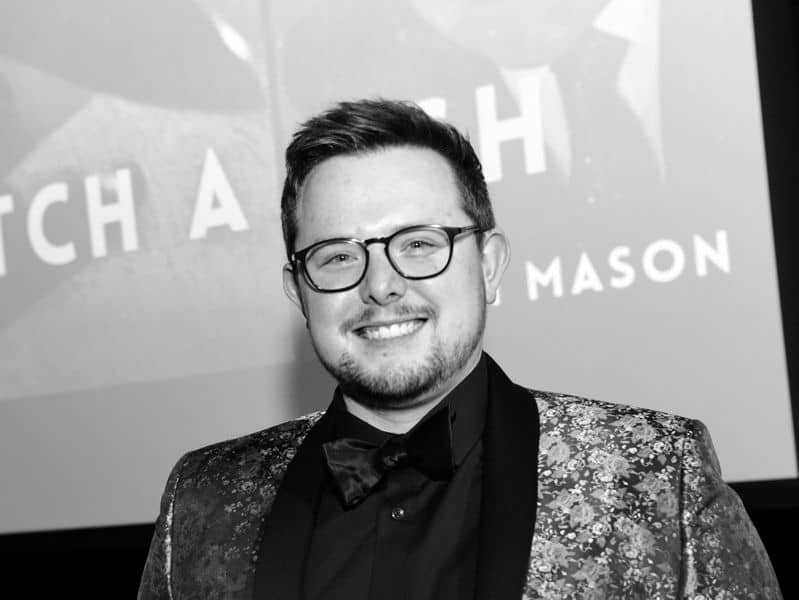
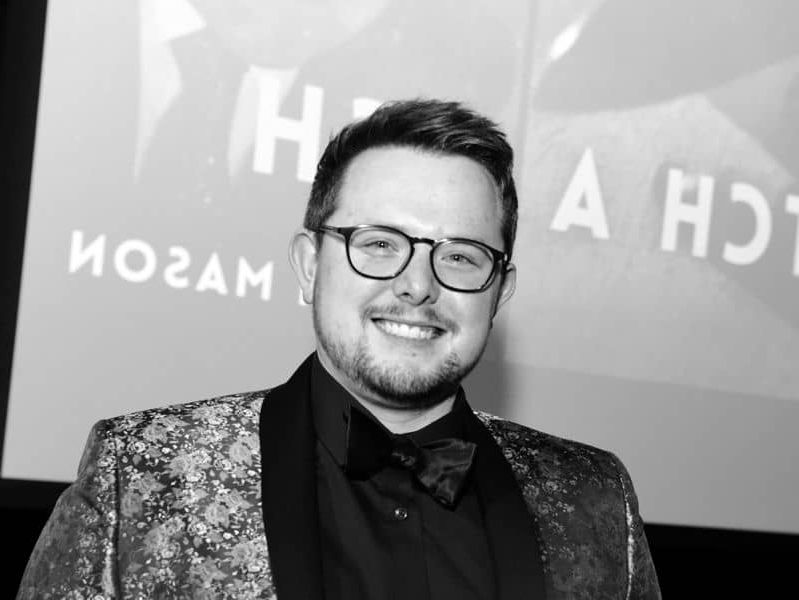
Added Mobile CSS styling Fixed the Portfolio Gallery Items

diff --git a/index.html b/index.html
@@ -31,13 +31,13 @@
 
 <div class="container">
     <section id="Bio">
-        <img style="float:left; position: absolute; left:0px; width:auto; height:100vh; max-height: 100vw" src="Assets/headshot_TCAFPrem%20(2)-01-min.jpeg" alt="Jack Fleming">
+        <img style="" src="Assets/headshot_TCAFPrem%20(2)-01-min.jpeg" alt="Jack Fleming" class="BioIMG">
     </section>
     
     <div class="block">
         <div class="BioContainer">
             <div class="BioImage BioItem">
-                <img style="width:50%; height:auto; opacity: 0" src="Assets/headshot_TCAFPrem%20(2)-01-min.jpeg" alt="Jack Fleming">
+                <img style="width:50%; height:auto; opacity: 0"  src="Assets/headshot_TCAFPrem%20(2)-01-min.jpeg" alt="Jack Fleming">
             </div>
             <a href="#bio" class="BioText BioItem">
                 <img src="Assets/JF_Logo_2_shadows_new.png" style="height: 128px; width: auto">
@@ -55,6 +55,40 @@
     <section class="block" id="Work">
         <h2></h2>
         <h2 class="SectionHeader">Composer</h2>
+        <h3 class="SubHeader">Music Department</h3>
+        <div class="gallery">        
+            <div class="galleryItemContainer">
+            <a href="#film" class="galleryItem">
+                <div class="galleryItemContent">
+                    <img style="width: 100%; height: 100%" src="Assets/operation_fortune.jpg" alt="1"/>
+                    <div class ="galleryDescription">
+                        <p>Operation Fortune</p>
+                        <p></p>
+                        <p>Original Score</p>
+                    </div>
+                </div>
+            </a>
+        </div>
+            <div class="galleryItemContainer">
+                <a href="#film" class="galleryItem">
+                    <div class="galleryItemContent">
+                        <img style="width: 100%; height: 100%" src="Assets/Wrath_of_Man.jpg" alt="1"/>
+                        <div class ="galleryDescription">
+                            <p>Wrath of Man</p>
+                            <p></p>
+                            <p>Original Score</p>
+                        </div>
+                    </div>
+                </a>
+            </div>
+            <div class="galleryItemContainer blank">
+                <div href="#film" class="galleryItem blank">
+                    <div class="galleryItemContent blank">
+                        <img style="width: 100%; height: 100%; opacity: 0" src="Assets/AHIFM.png" alt="1"/>
+                    </div>
+                </div>
+            </div>
+        </div>
         <h3 class="SubHeader">Film</h3>
         <div class="gallery">
             <div class="galleryItemContainer">
@@ -182,29 +216,19 @@
                     </div>
                 </a>
             </div>
-            <div class="galleryItemContainer">
-                <a href="#film" class="galleryItem">
-                    <div class="galleryItemContent">
-                        <img style="width: 100%; height: 100%" src="Assets/operation_fortune.jpg" alt="1"/>
-                        <div class ="galleryDescription">
-                            <p>Operation Fortune</p>
-                            <p></p>
-                            <p>Original Score</p>
-                        </div>
+            <div class="galleryItemContainer blank">
+                <div href="#film" class="galleryItem blank">
+                    <div class="galleryItemContent blank">
+                        <img style="width: 100%; height: 100%; opacity: 0" src="Assets/AHIFM.png" alt="1"/>
                     </div>
-                </a>
+                </div>
             </div>
-            <div class="galleryItemContainer">
-                <a href="#film" class="galleryItem">
-                    <div class="galleryItemContent">
-                        <img style="width: 100%; height: 100%" src="Assets/Wrath_of_Man.jpg" alt="1"/>
-                        <div class ="galleryDescription">
-                            <p>Wrath of Man</p>
-                            <p></p>
-                            <p>Original Score</p>
-                        </div>
+            <div class="galleryItemContainer blank">
+                <div href="#film" class="galleryItem blank">
+                    <div class="galleryItemContent blank">
+                        <img style="width: 100%; height: 100%; opacity: 0" src="Assets/AHIFM.png" alt="1"/>
                     </div>
-                </a>
+                </div>
             </div>
             <div class="galleryItemContainer blank">
                 <div href="#film" class="galleryItem blank">
@@ -268,9 +292,6 @@
         <script src="https://static.elfsight.com/platform/platform.js" data-use-service-core defer></script>
         <div class="elfsight-app-591243fb-f68d-480f-92ef-a3c8cae80c4b"></div>
     </section>
-    <div class="block"></div>
-    <div class="block"></div>
-    <div class="block"></div>
 </div>
 
 <a href="#reels" class="reelContainer">

diff --git a/style.css b/style.css
@@ -40,6 +40,15 @@ h3 {
     user-select: none;
 }
 
+.BioIMG{
+    float:left; 
+    position: absolute; 
+    left:0px; 
+    height:100vh;
+    width:auto;
+    max-height: 100vw;
+    transform: translateX(-25%);
+}
 
 .logo{
     position: absolute;
@@ -511,4 +520,55 @@ h3 {
     justify-content: center;
     align-items: center;
     flex-direction: column;
+}
+
+/* For screens smaller than 768px */
+@media (max-width: 767px) {
+    .gallery {
+        grid-template-columns: repeat(2, 1fr);
+    }
+    .BioContainer{
+        flex-direction: column;
+        grid-template-areas: "a";
+        grid-template-columns: 1fr;
+        margin-top:256px;
+        padding:0;
+    }
+    .block{
+        width:100%;
+    }
+    .nav{
+        width:100%;
+        left: 0px;
+        right: 0px;
+        margin-left:0;
+        margin-right:0;
+        justify-content: initial;
+    }
+    .navItem{
+        justify-content: center;
+    }
+    .Seperator{
+        display: flex;
+        flex-direction: column;
+        float:left;
+    }
+    .testimonialContainer{
+        overflow: hidden;
+    }
+    .testimonial{
+        word-wrap: break-word;
+        width: 100%;
+        display: flex;
+        flex-direction: column;
+        justify-content: center;
+        align-items: center;
+    }
+    .testimonialText{
+        width:75%;
+    }
+    .blank{
+        width:0;
+        height:0;
+    }
 }
